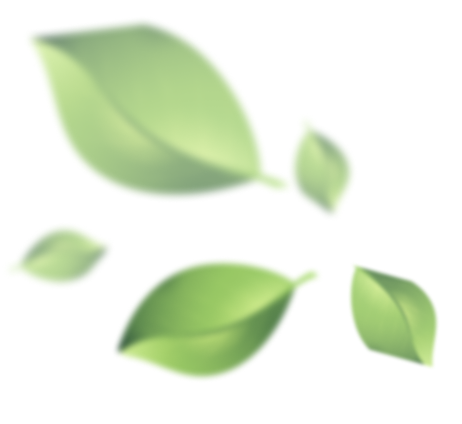
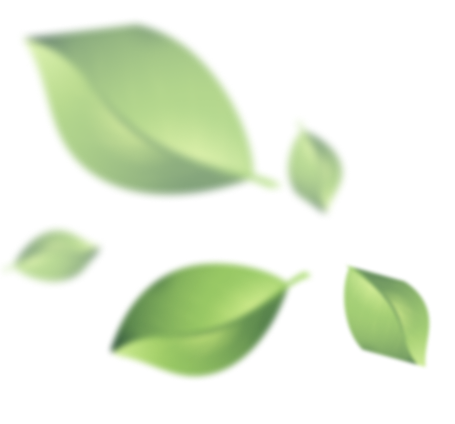
feat: add margins to welcome section for alignment perfectpixel

diff --git a/plants/sass/style.css b/plants/sass/style.css
@@ -187,7 +187,7 @@ dfn {
  */
 h1 {
   font-size: 2em;
-  margin: 0.67em 0;
+  margin: 0;
 }
 
 /**
@@ -547,12 +547,16 @@ ul {
 }
 
 .welcome__content {
+  padding: 98px 0 0 60px;
   font-weight: 400;
 }
 
 .welcome__image {
-  background: url(../assets/leafs_about.png) center no-repeat;
+  background: url(../assets/leafs_about.png) left no-repeat;
   height: 407px;
+  margin: 62px 0;
+  border: 0;
+  padding: 0;
 }
 
 .welcome__header {
@@ -569,6 +573,8 @@ ul {
   font-size: 2rem;
   line-height: 3.5rem;
   color: #636060;
+  margin: 0;
+  padding: 43px 23px 48px 0;
 }
 
 .welcome__button {
@@ -578,7 +584,7 @@ ul {
   color: #000000;
   border: 2px solid #E06733;
   border-radius: 10px;
-  padding: 14px 27px 14px 27px;
+  padding: 10px 26px;
 }
 .welcome__button:hover {
   background-color: #E06733;

diff --git a/plants/sass/components/_welcome.scss b/plants/sass/components/_welcome.scss
@@ -7,13 +7,18 @@
 }
 
 .welcome__content {
+  padding: 98px 0 0 60px;
   @extend %font-second;
   font-weight: 400;
 }
 
 .welcome__image {
-  background: url(../assets/leafs_about.png) center no-repeat;
+  background: url(../assets/leafs_about.png) left no-repeat;
   height: 407px;
+  margin: 62px 0;
+  border: 0;
+  padding: 0;
+  
 }
 
 .welcome__header {
@@ -30,6 +35,8 @@
   font-size: 2.0rem;
   line-height: 3.5rem;
   color: $color-main-text;
+  margin: 0;
+  padding: 43px 23px 48px 0 ; 
 }
 
 .welcome__button {
@@ -39,7 +46,7 @@
   color: $color-second-text;
   border: 2px solid $color-brand-second;
   border-radius: 10px;
-  padding: 14px 27px 14px 27px;
+  padding: 10px 26px;
   &:hover {
     background-color: $color-brand-second;
     color: $color-light;

diff --git a/plants/sass/base/_normalize.scss b/plants/sass/base/_normalize.scss
@@ -176,33 +176,33 @@ dfn {
 
 h1 {
   font-size: 2em;
-  margin: 0.67em 0;
+  margin: 0;
 }
 
 @if $legacy_browser_support {
   h2 {
     font-size: 1.5em;
-    margin: 0.83em 0;
+    margin: 0;
   }
 
   h3 {
     font-size: 1.17em;
-    margin: 1em 0;
+    margin: 0;
   }
 
   h4 {
     font-size: 1em;
-    margin: 1.33em 0;
+    margin: 0;
   }
 
   h5 {
     font-size: 0.83em;
-    margin: 1.67em 0;
+    margin: 0;
   }
 
   h6 {
     font-size: 0.67em;
-    margin: 2.33em 0;
+    margin: 0;
   }
 }
 
@@ -223,7 +223,7 @@ mark {
 
   p,
   pre {
-    *margin: 1em 0;
+    margin: 0;
   }
 
   /*
